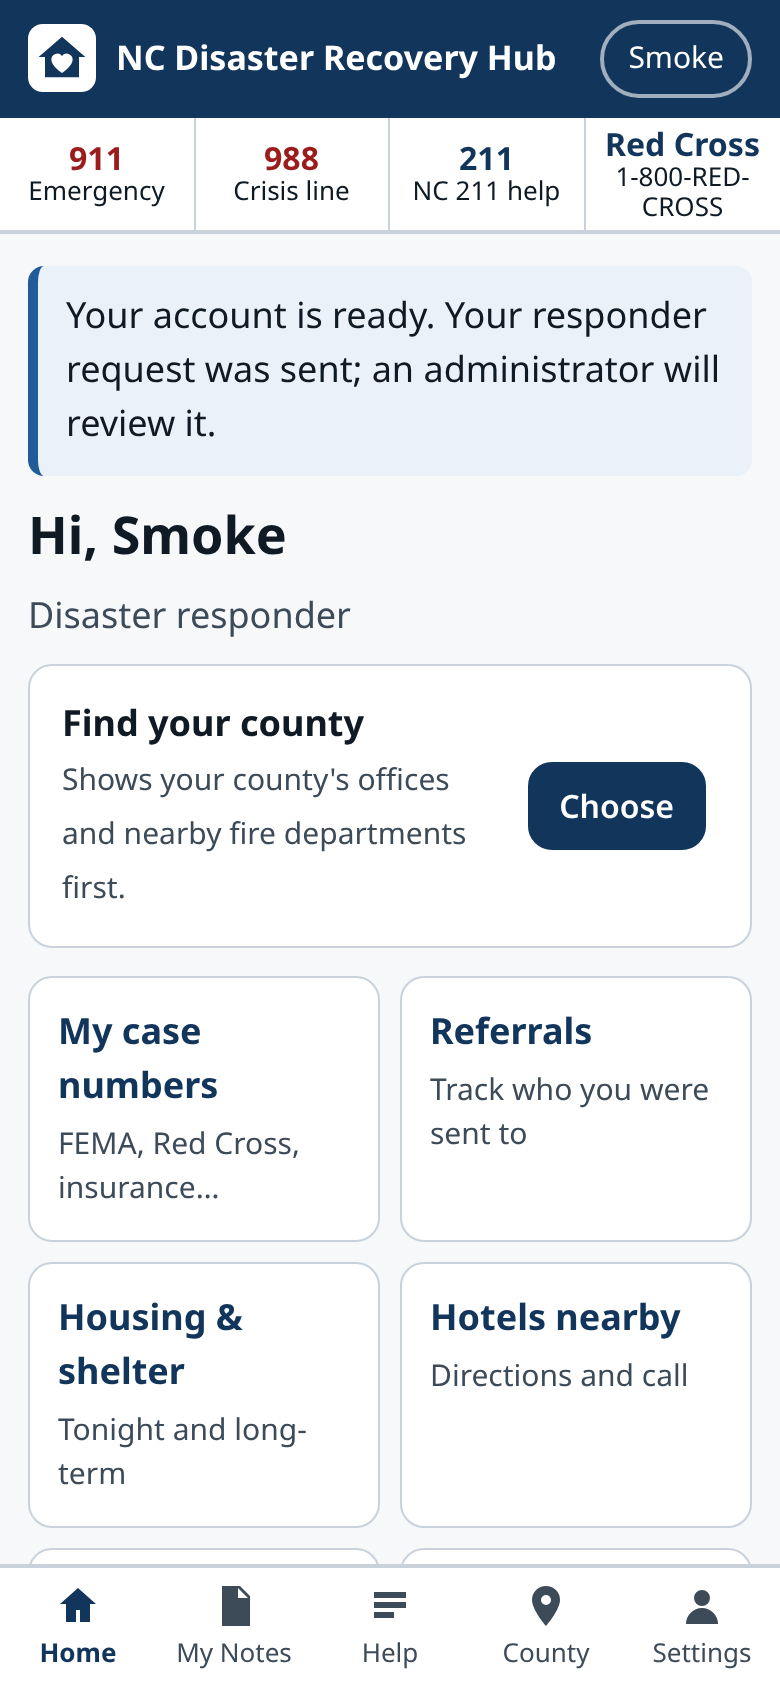
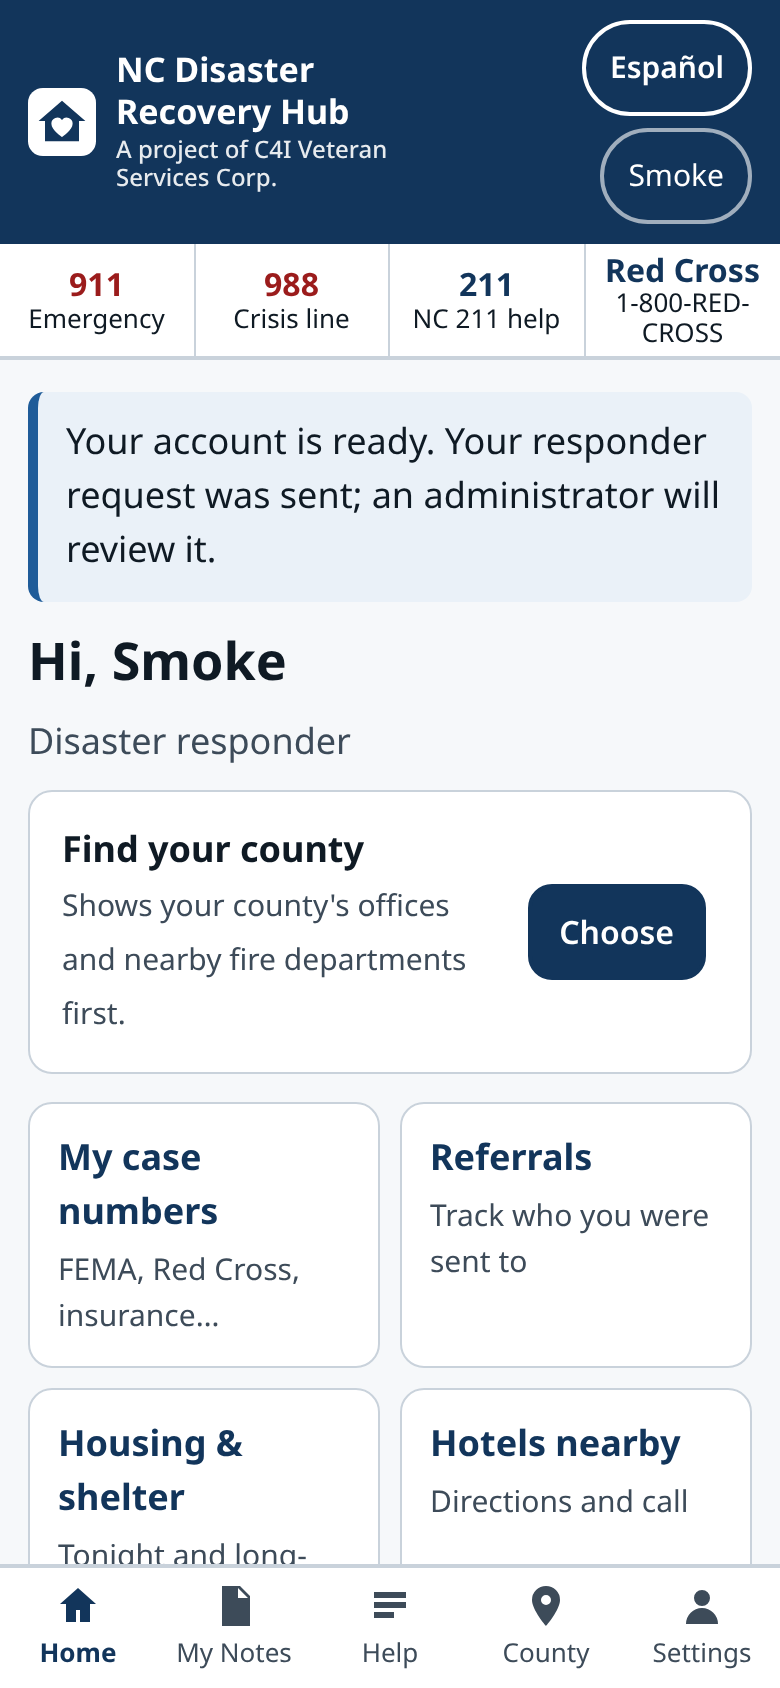
Live tests: preset language, static hotel list; live screenshots; progress notes

diff --git a/PROGRESS-android-push.md b/PROGRESS-android-push.md
@@ -1,0 +1,13 @@
+# Progress: translation / a11y / Android TWA / push / git / deploy (2026-10-24/25)
+
+- [x] Translation tile + /translation (EN/ES), links verified 2026-10-25 (all 200; FEMA via browser UA)
+- [x] NC 211 wording aligned with nc211.org/about ("available in most languages")
+- [x] Accessibility: axe 0 findings (12 checks), Lighthouse 100 on 24 pages; docs/accessibility/ written
+- [x] Android TWA AAB: android/release/app-release.aab (gitignored); keystore in /home/box/secrets/nc-disaster-hub/android
+- [x] Web push + admin compose/confirm/log; e2e 79/79, local e2e 63/63, unit 84+16, i18n 8
+- [x] docs/play-store/ checklist, data safety, content rating, listings, graphics
+- [x] git init + secret scan + commit bd3fa61 (local only; gh not logged in)
+- [x] Production deploy 6add7fe94cca755a483c545a READY (from clean git archive, no data-raw HTML)
+- [x] Live: assetlinks application/json, /translation /alerts /accessibility /delete-account 200, pushKey OK, CSP+HSTS
+- [x] Live smoke 12/12 + branding 7/7 pass (tests updated for language dialog + static hotel list); live-34..39 site screenshots
+- [ ] Final commit + report
